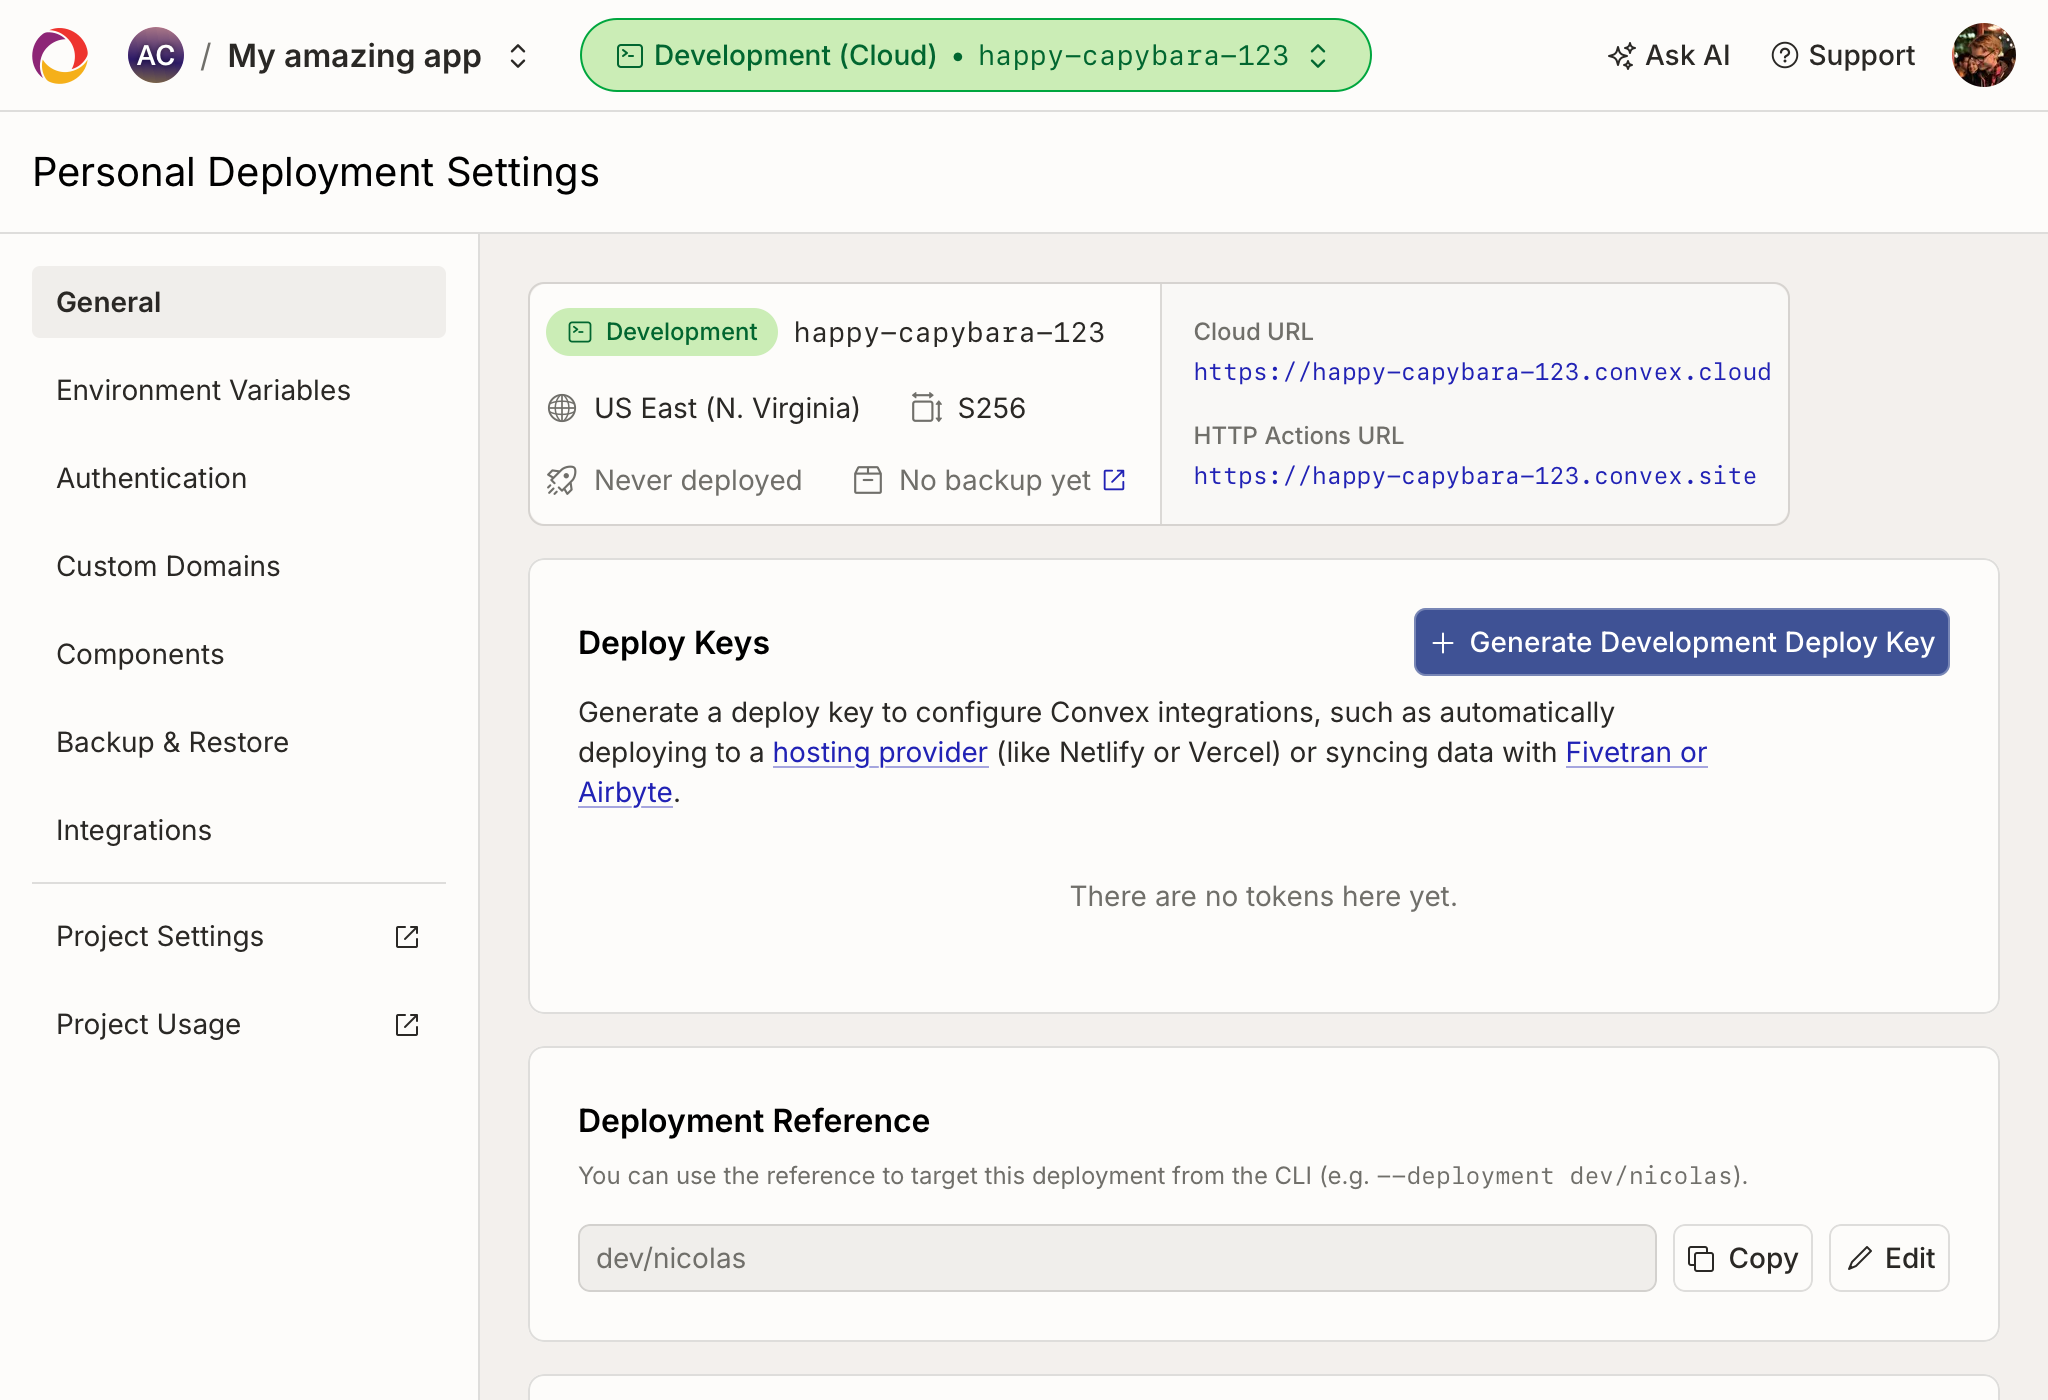
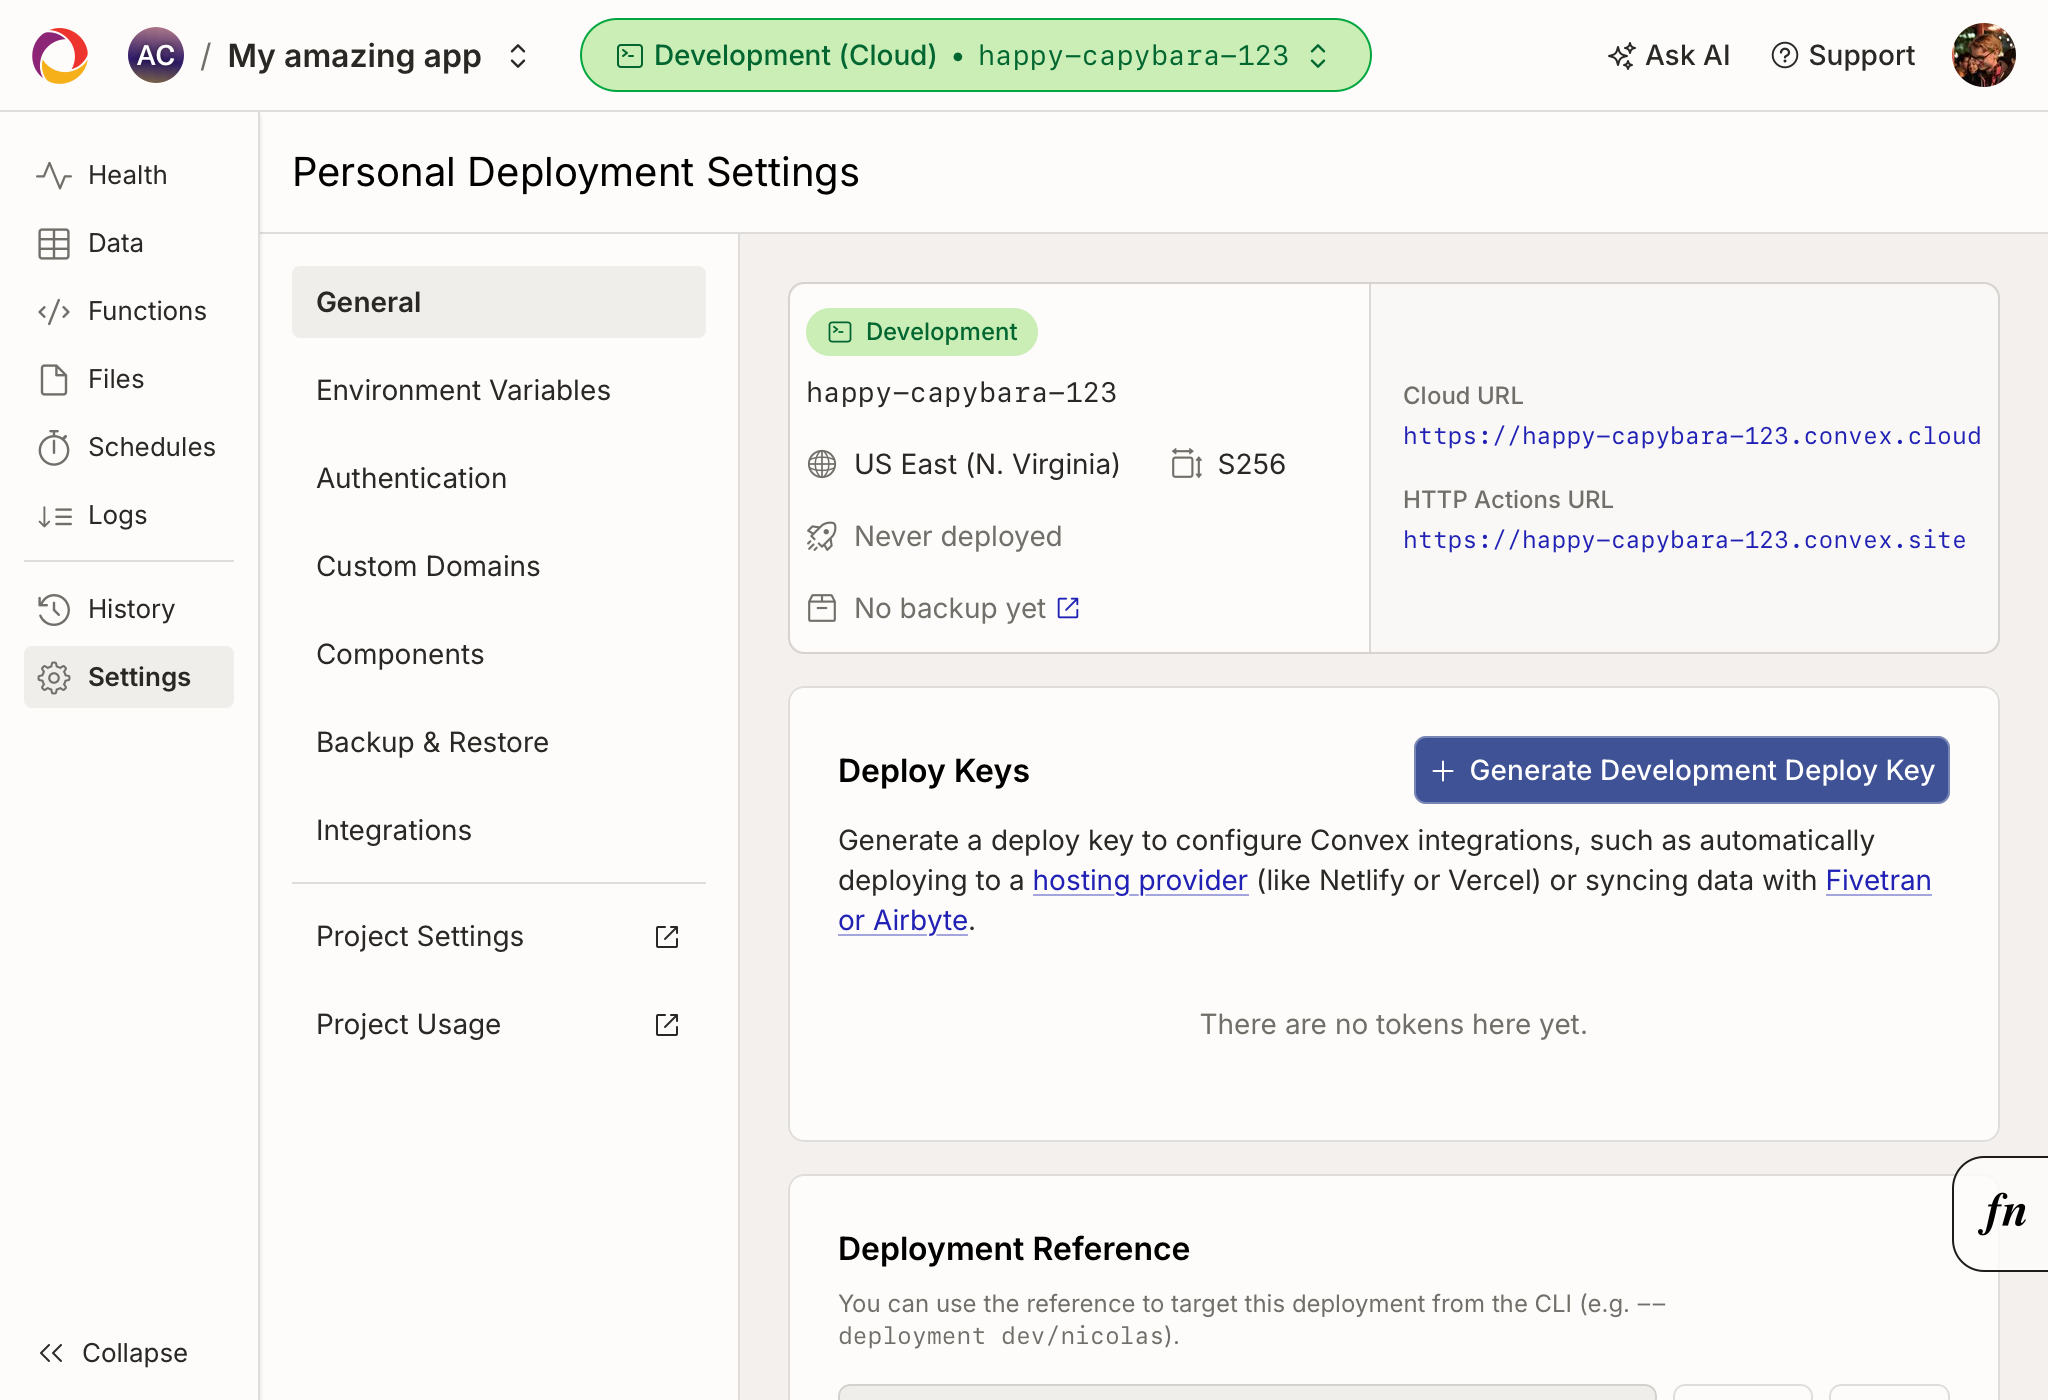
Fix layout used in deployment stories (#49152)
GitOrigin-RevId: 169ec40ee4a85a426fc032cd04e80ef03854d9c4

diff --git a/npm-packages/dashboard-storybook/.storybook/docsPageDecorator.tsx b/npm-packages/dashboard-storybook/.storybook/docsPageDecorator.tsx
@@ -1,5 +1,5 @@
 import { DeploymentInfoProvider } from "../../dashboard/src/providers/DeploymentInfoProvider";
-import { ReactNode, useEffect } from "react";
+import { ReactNode, useContext, useEffect } from "react";
 import { DecoratorFunction } from "storybook/internal/types";
 import { ReactRenderer } from "@storybook/nextjs";
 import { mocked, fn } from "storybook/test";
@@ -61,6 +61,12 @@ import { DeploymentProvider } from "../../dashboard/src/components/projectSettin
 import { mockConvexReactClient } from "../../dashboard-common/src/lib/mockConvexReactClient";
 import udfs from "../../dashboard-common/src/udfs";
 import { ConvexProvider } from "convex/react";
+import { DeploymentDashboardLayout } from "../../dashboard-common/src/layouts/DeploymentDashboardLayout";
+import {
+  ConnectedDeploymentContext,
+  DeploymentInfoContext,
+} from "../../dashboard-common/src/lib/deploymentContext";
+import { useTableShapes } from "../../dashboard-common/src/lib/deploymentApi";
 
 const MOCK_PROFILE_PICTURE_URL =
[1 lines of base64/hex data omitted]
@@ -342,21 +348,46 @@ export const docsPageDecorator: DecoratorFunction<ReactRenderer> = (
   mocked(useInstanceAccessTokens).mockReturnValue([]);
   mocked(LocalDevCallout).mockReturnValue(null);
   mocked(CloudDisconnectOverlay).mockReturnValue(null);
+  mocked(useTableShapes).mockReturnValue({
+    tables: new Map(),
+    hadError: false,
+  });
 
   // DeploymentProvider normally creates a real ConvexReactClient that opens a
   // WebSocket connection. Replace the real provider chain with a lightweight
   // ConvexProvider backed by a mock client so the components inside (e.g.
   // DeploymentDomainInfo) can still call useQuery without hitting a real backend.
-  const headerMockClient = mockConvexReactClient()
+  const mockClient = mockConvexReactClient()
     .registerQueryFake(udfs.convexCloudUrl.default, () => undefined)
-    .registerQueryFake(udfs.components.list, () => []);
+    .registerQueryFake(udfs.components.list, () => [])
+    .registerQueryFake(udfs.deploymentState.deploymentState, () => ({
+      _id: "" as any,
+      _creationTime: 0,
+      state: "running" as const,
+    }))
+    .registerQueryFake(udfs.modules.listForAllComponents, () => [])
+    .registerQueryFake(udfs.getSchemas.default, () => ({}));
   mocked(DeploymentProvider).mockImplementation(({ children }) => (
-    <ConvexProvider client={headerMockClient}>{children}</ConvexProvider>
+    <ConvexProvider client={mockClient}>{children}</ConvexProvider>
   ));
+  const mockConnectedDeployment = {
+    deployment: {
+      client: mockClient,
+      httpClient: {} as never,
+      deploymentUrl: DEV_DEPLOYMENT.deploymentUrl,
+      adminKey: "STORYBOOK-FAKE-KEY",
+      deploymentName: DEV_DEPLOYMENT.name,
+    },
+    isDisconnected: false,
+  };
 
   return (
     <DocsShell
       deployment={shouldMockCurrentDeployment ? DEV_DEPLOYMENT.name : null}
+      mockConnectedDeployment={
+        shouldMockCurrentDeployment ? mockConnectedDeployment : null
+      }
+      mockClient={shouldMockCurrentDeployment ? mockClient : null}
     >
       {storyFn()}
     </DocsShell>
@@ -366,8 +397,21 @@ export const docsPageDecorator: DecoratorFunction<ReactRenderer> = (
 function DocsShell({
   children,
   deployment,
+  mockConnectedDeployment,
+  mockClient,
 }: React.PropsWithChildren<{
   deployment: string | null;
+  mockConnectedDeployment: {
+    deployment: {
+      client: any;
+      httpClient: never;
+      deploymentUrl: string;
+      adminKey: string;
+      deploymentName: string;
+    };
+    isDisconnected: boolean;
+  } | null;
+  mockClient: any | null;
 }>) {
   const [accessToken, setAccessToken] = useAccessToken();
 
@@ -378,7 +422,17 @@ function DocsShell({
   const pageContents = (
     <div className="flex h-screen flex-col">
       <DashboardHeader />
-      <div className="flex-1 overflow-auto">{children}</div>
+      <div className="flex-1 overflow-auto">
+        {deployment && mockConnectedDeployment && mockClient ? (
+          <ConnectedDeploymentContext.Provider value={mockConnectedDeployment}>
+            <ConvexProvider client={mockClient}>
+              <DeploymentLayoutWhenReady>{children}</DeploymentLayoutWhenReady>
+            </ConvexProvider>
+          </ConnectedDeploymentContext.Provider>
+        ) : (
+          children
+        )}
+      </div>
     </div>
   );
 
@@ -404,5 +458,20 @@ function DocsShell({
         pageContents
       )}
     </AuthContext.Provider>
+  );
+}
+
+// DeploymentInfoProvider renders children without the context on the first
+// render (before the async deploymentAuth resolves). Guard against calling
+// DeploymentDashboardLayout until the context is available.
+function DeploymentLayoutWhenReady({
+  children,
+}: React.PropsWithChildren<object>) {
+  const deploymentInfo = useContext(DeploymentInfoContext);
+  if (!deploymentInfo) return null;
+  return (
+    <DeploymentDashboardLayout>
+      {children as JSX.Element}
+    </DeploymentDashboardLayout>
   );
 }

diff --git a/npm-packages/dashboard-storybook/.storybook/preview.ts b/npm-packages/dashboard-storybook/.storybook/preview.ts
@@ -47,6 +47,9 @@ sb.mock(
   import("../../dashboard/src/components/projectSettings/CustomDomains.tsx"),
   { spy: true },
 );
+sb.mock(import("../../dashboard-common/src/lib/deploymentApi.ts"), {
+  spy: true,
+});
 
 const preview: Preview = {
   initialGlobals: {
